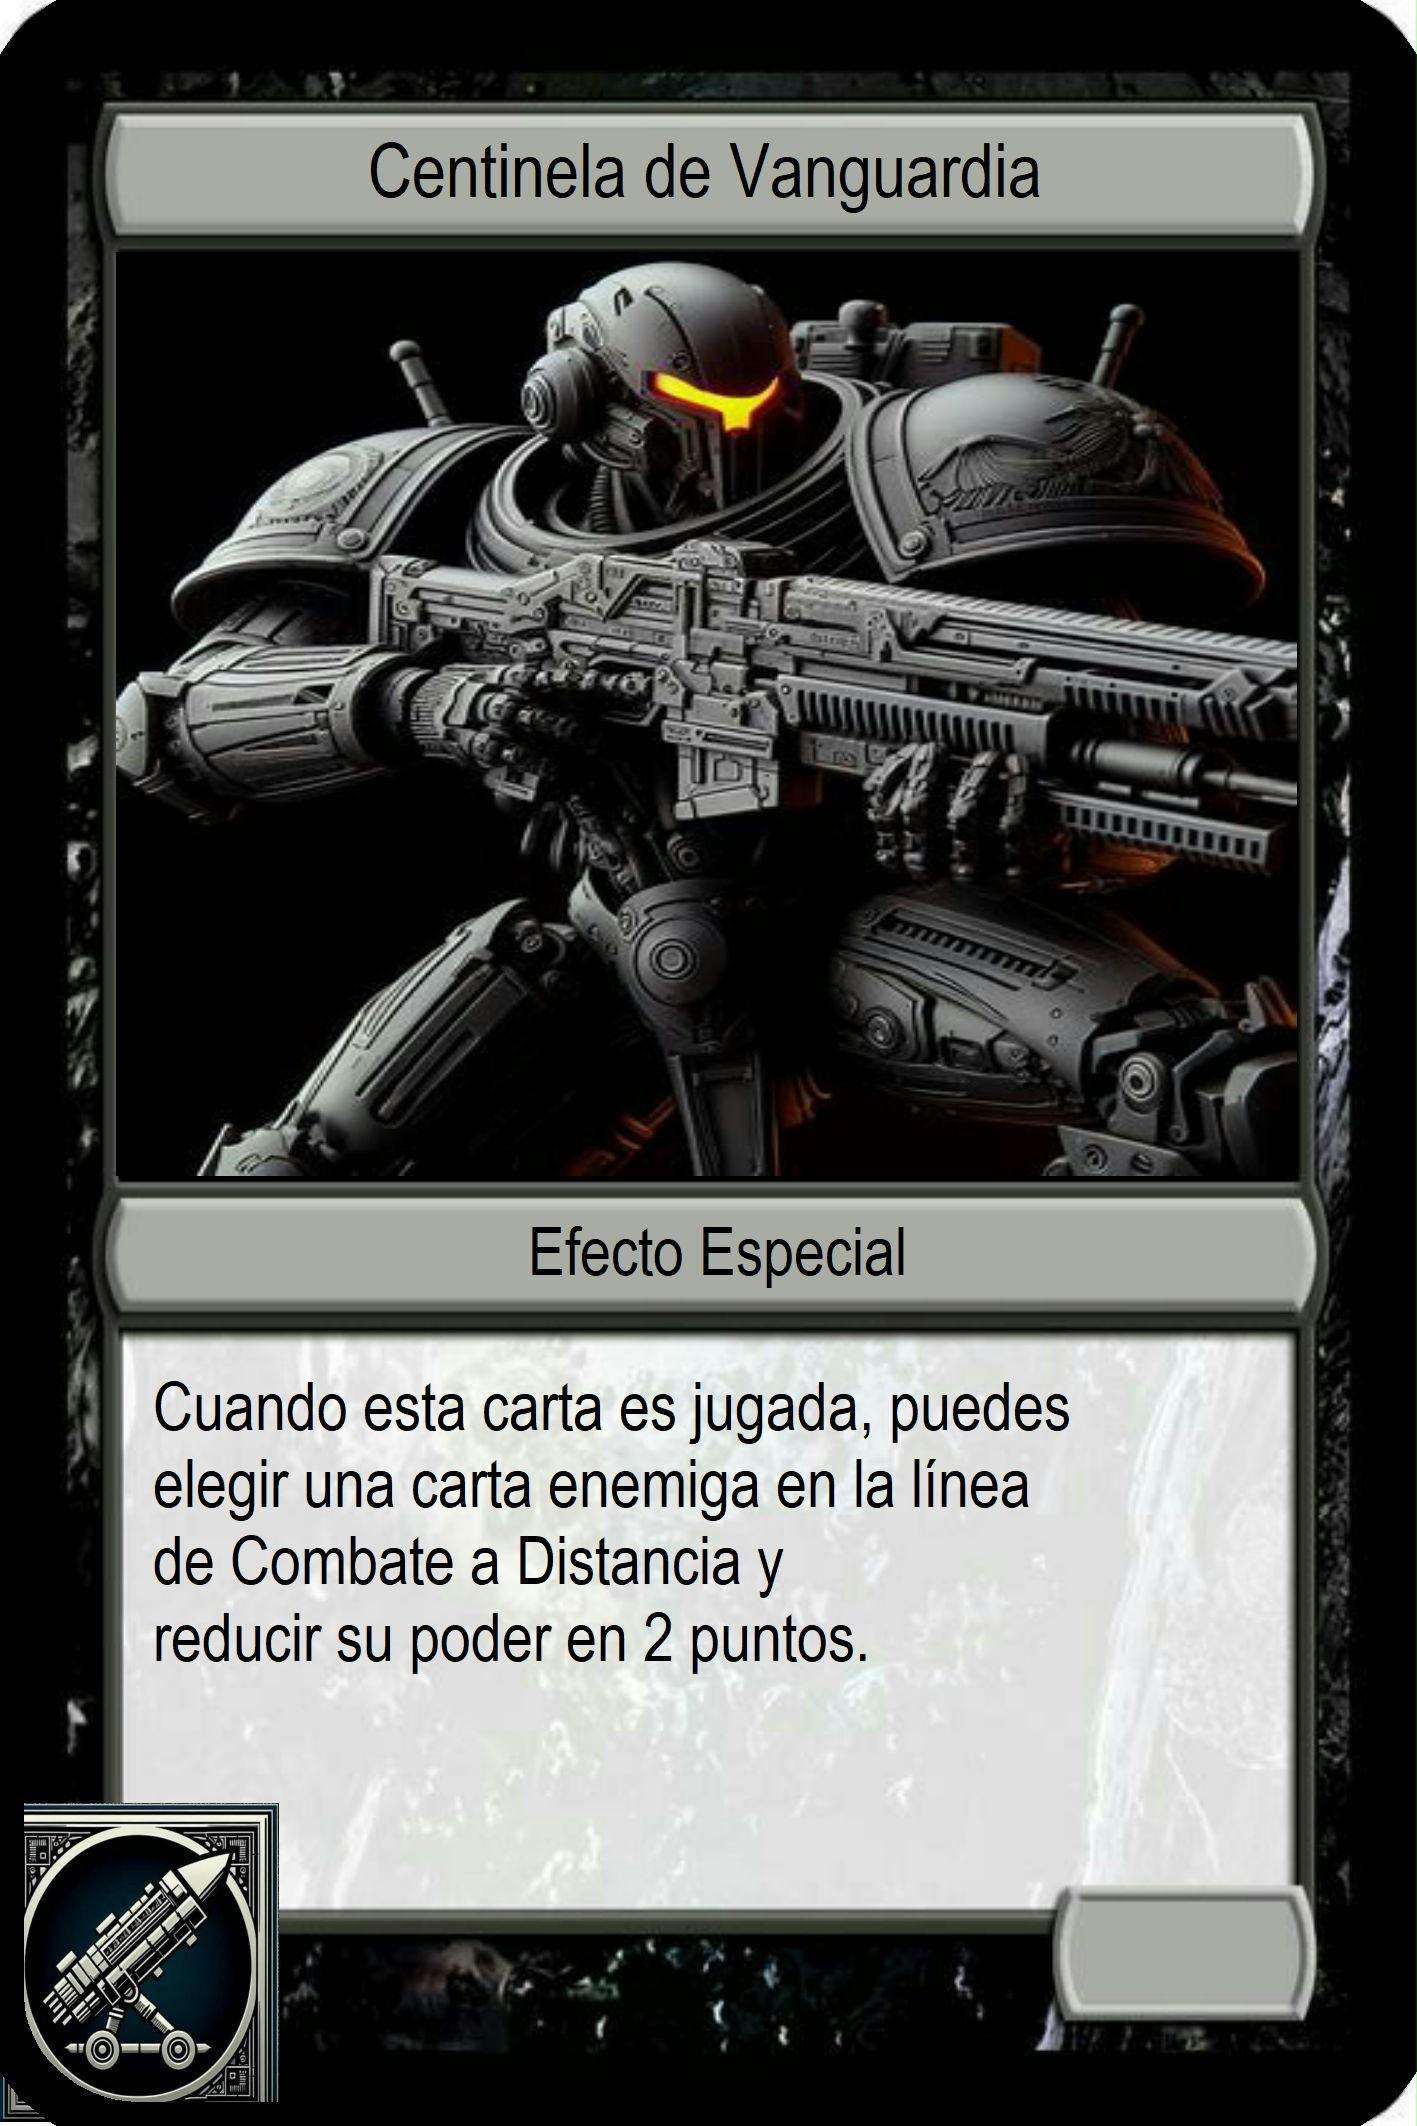
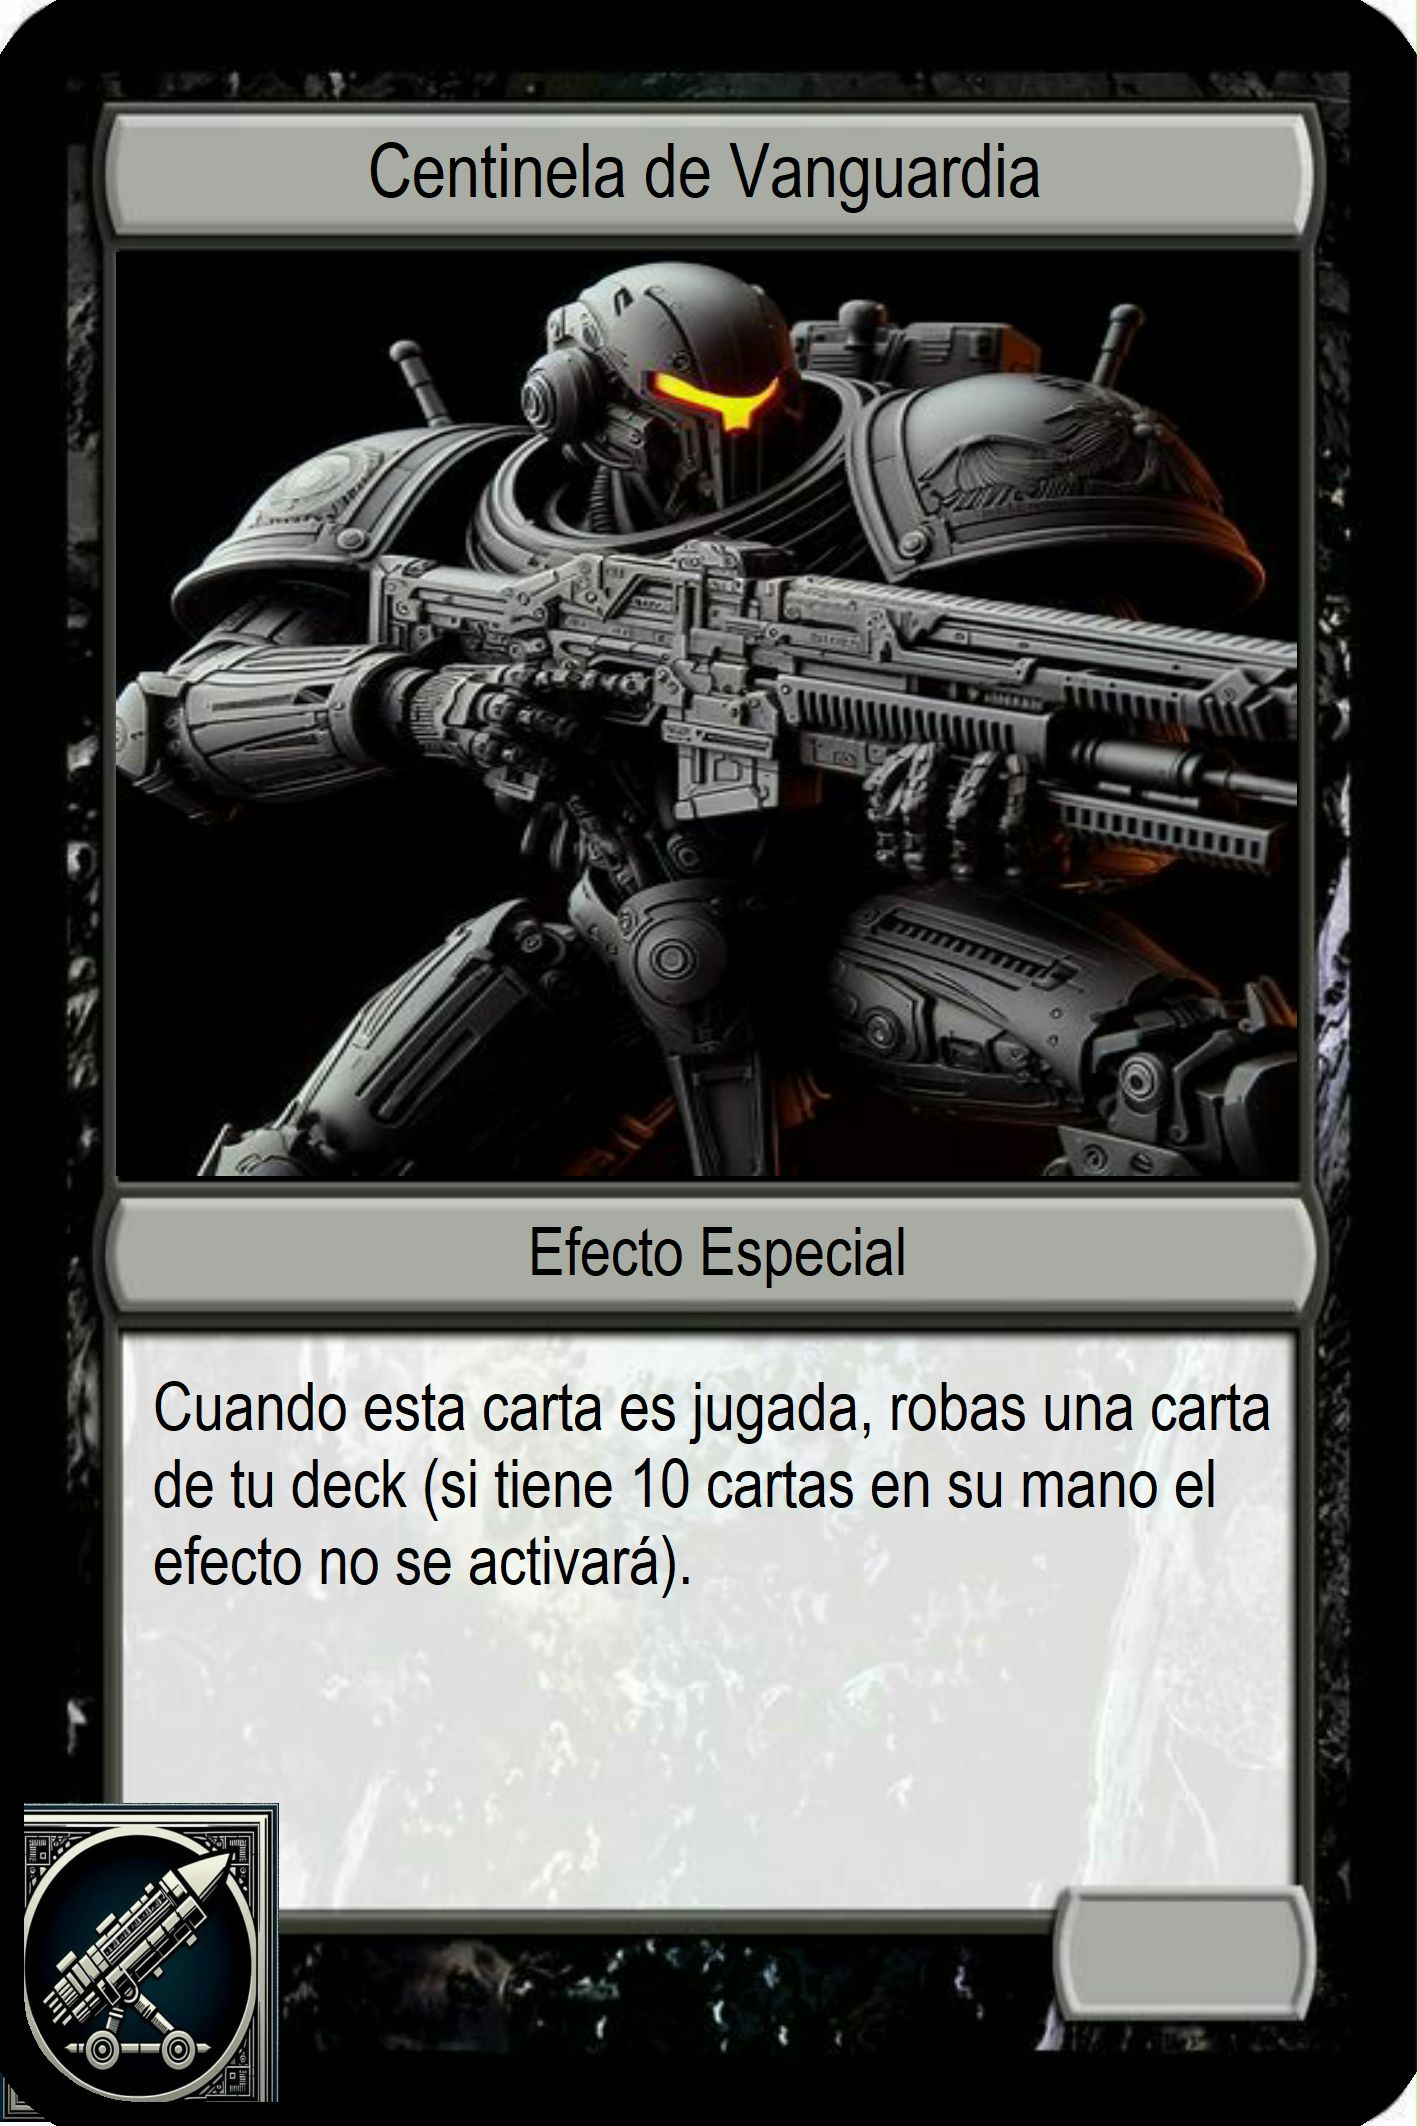
Feat: Gold Cards Effect implemented and new sprites added

Changed region(s): [[0.0932, 0.6519, 0.9005, 0.8071]]

diff --git a/Assets/Scripts/Scr_Effects.cs b/Assets/Scripts/Scr_Effects.cs
@@ -17,6 +17,9 @@ public class Scr_Effects : MonoBehaviour
             { "Play_Card" , Play_Card },
             { "Clear" , Clear },
             { "Increase" , Increase },
+            { "Duplicate_Power" , Duplicate_Power },
+            { "Beehive" , Beehive },
+            { "Destroy_Best_Card" , Destroy_Best_Card }
         };    
     }
 
@@ -422,5 +425,158 @@ public class Scr_Effects : MonoBehaviour
 
             Main_Objects[0].GetComponent<Scr_Game_Manager>().Power_Update();
         }
+
+        else if(card.unit_type == "G")
+        {
+            if (card.player)
+                foreach (Transform obj in Main_Objects[1].transform)
+                {
+                    obj.GetComponent<Display_Card>().Card.current_power = obj.GetComponent<Display_Card>().Card.real_power - Main_Objects[1].GetComponent<Scr_DropZone>().weather_effects + Main_Objects[1].GetComponent<Scr_DropZone>().raise_effects;
+                }
+            else
+                foreach (Transform obj in Main_Objects[4].transform)
+                {
+                    obj.GetComponent<Display_Card>().Card.current_power = obj.GetComponent<Display_Card>().Card.real_power - Main_Objects[1].GetComponent<Scr_DropZone>().weather_effects + Main_Objects[1].GetComponent<Scr_DropZone>().raise_effects;
+                }
+        }
+    }
+    public void Duplicate_Power(Scr_Card card)
+    {
+        if(card.player) {
+            foreach(Transform obj in Main_Objects[1].transform)
+            {
+                obj.GetComponent<Display_Card>().Card.current_power *= 2;
+            }
+        }
+        else if(!card.player) { 
+            foreach(Transform obj in Main_Objects[4].transform)
+            {
+                obj.GetComponent<Display_Card>().Card.current_power *= 2;
+            }
+        } 
+        
+    }
+    public void Beehive(Scr_Card card)
+    {
+        int cont=1;
+        if (card.player)
+        {
+            foreach (Transform obj in Main_Objects[1].transform)
+            {
+                if (obj.GetComponent<Display_Card>().Card.name == card.name)
+                    cont++;
+            }
+            foreach (Transform obj in Main_Objects[2].transform)
+            {
+                if (obj.GetComponent<Display_Card>().Card.name == card.name)
+                    cont++;
+            }
+            foreach (Transform obj in Main_Objects[3].transform)
+            {
+                if (obj.GetComponent<Display_Card>().Card.name == card.name)
+                    cont++;
+            }
+        }
+        else if (!card.player)
+        {
+            foreach (Transform obj in Main_Objects[4].transform)
+            {
+                if (obj.GetComponent<Display_Card>().Card.name == card.name)
+                    cont++;
+            }
+            foreach (Transform obj in Main_Objects[5].transform)
+            {
+                if (obj.GetComponent<Display_Card>().Card.name == card.name)
+                    cont++;
+            }
+            foreach (Transform obj in Main_Objects[6].transform)
+            {
+                if (obj.GetComponent<Display_Card>().Card.name == card.name)
+                    cont++;
+            }
+        }
+        card.current_power *= cont;
+    } 
+    public void Destroy_Best_Card(Scr_Card card)
+    {
+        (int, GameObject) Best_Card = (-1, null);
+        #region//getting the best_card
+        foreach (Transform obj in Main_Objects[1].transform)
+        {
+            if (obj.GetComponent<Display_Card>().Card.current_power > Best_Card.Item1 && obj.GetComponent<Display_Card>().Card.unit_type!="G")
+                Best_Card = (obj.GetComponent<Display_Card>().Card.current_power, obj.gameObject);
+                
+        }
+        foreach (Transform obj in Main_Objects[2].transform )
+        {
+            if (obj.GetComponent<Display_Card>().Card.current_power > Best_Card.Item1 && obj.GetComponent<Display_Card>().Card.unit_type != "G")
+                Best_Card = (obj.GetComponent<Display_Card>().Card.current_power, obj.gameObject);
+
+        }
+        foreach (Transform obj in Main_Objects[3].transform)
+        {
+            if (obj.GetComponent<Display_Card>().Card.current_power > Best_Card.Item1 && obj.GetComponent<Display_Card>().Card.unit_type != "G")
+                Best_Card = (obj.GetComponent<Display_Card>().Card.current_power, obj.gameObject);
+
+        }
+        foreach (Transform obj in Main_Objects[4].transform)
+        {
+            if (obj.GetComponent<Display_Card>().Card.current_power > Best_Card.Item1 && obj.GetComponent<Display_Card>().Card.unit_type != "G")
+                Best_Card = (obj.GetComponent<Display_Card>().Card.current_power, obj.gameObject);
+
+        }
+        foreach (Transform obj in Main_Objects[5].transform)
+        {
+            if (obj.GetComponent<Display_Card>().Card.current_power > Best_Card.Item1 && obj.GetComponent<Display_Card>().Card.unit_type != "G")
+                Best_Card = (obj.GetComponent<Display_Card>().Card.current_power, obj.gameObject);
+
+        }
+        foreach (Transform obj in Main_Objects[6].transform)
+        {
+            if (obj.GetComponent<Display_Card>().Card.current_power > Best_Card.Item1 && obj.GetComponent<Display_Card>().Card.unit_type != "G")
+                Best_Card = (obj.GetComponent<Display_Card>().Card.current_power, obj.gameObject);
+
+        }
+        #endregion
+        #region //deleting it
+        if (Best_Card.Item2.GetComponent<Display_Card>().Card.player)
+        {
+            GameObject Prov_ = GameObject.Find("Game_Manager");
+            if (Prov_ != null)
+            {
+                Destroy(Best_Card.Item2);
+                Prov_.GetComponent<Scr_Game_Manager>().Deck1.Grave.Add(Best_Card.Item2.GetComponent<Display_Card>().Card);
+                Prov_.GetComponent<Scr_Game_Manager>().total_power_p1 = Prov_.GetComponent<Scr_Game_Manager>().total_power_p1 - Best_Card.Item1 + card.current_power;
+                Prov_.GetComponent<Scr_Game_Manager>().total_power_p1_t.text = Prov_.GetComponent<Scr_Game_Manager>().total_power_p1.ToString();
+
+                Prov_.GetComponent<Scr_Game_Manager>().turn = !Prov_.GetComponent<Scr_Game_Manager>().turn;
+                foreach (GameObject obj in Prov_.GetComponent<Scr_Game_Manager>().Principal_Objects)
+                {
+                    if (obj.name == "Grave_Image_CM" || obj.name == "Grave_Image_CR" || obj.name == "Grave_Zone" || obj.name == "Grave_Zone_Enemy" || obj.name == "Lives" || obj.name == "Lives_Zone" || obj.name == "Lives_Zone_Enemy") continue;
+
+                    Prov_.GetComponent<Scr_Game_Manager>().Rotate_Object(obj);
+                }
+            }
+        }
+        else if (!Best_Card.Item2.GetComponent<Display_Card>().Card.player)
+        {
+            GameObject Prov_ = GameObject.Find("Game_Manager");
+            if (Prov_ != null)
+            {
+                Destroy(Best_Card.Item2);
+                Prov_.GetComponent<Scr_Game_Manager>().Deck2.Grave.Add(Best_Card.Item2.GetComponent<Display_Card>().Card);
+                Prov_.GetComponent<Scr_Game_Manager>().total_power_p2 = Prov_.GetComponent<Scr_Game_Manager>().total_power_p2 - Best_Card.Item1 + card.current_power;
+                Prov_.GetComponent<Scr_Game_Manager>().total_power_p2_t.text = Prov_.GetComponent<Scr_Game_Manager>().total_power_p2.ToString();
+
+                Prov_.GetComponent<Scr_Game_Manager>().turn = !Prov_.GetComponent<Scr_Game_Manager>().turn;
+                foreach (GameObject obj in Prov_.GetComponent<Scr_Game_Manager>().Principal_Objects)
+                {
+                    if (obj.name == "Grave_Image_CM" || obj.name == "Grave_Image_CR" || obj.name == "Grave_Zone" || obj.name == "Grave_Zone_Enemy" || obj.name == "Lives" || obj.name == "Lives_Zone" || obj.name == "Lives_Zone_Enemy") continue;
+
+                    Prov_.GetComponent<Scr_Game_Manager>().Rotate_Object(obj);
+                }
+            }
+        }
+        #endregion
     }
 }

diff --git a/Assets/Scripts/Scr_Game_Manager.cs b/Assets/Scripts/Scr_Game_Manager.cs
@@ -27,11 +27,15 @@ public class Scr_Game_Manager : MonoBehaviour
     public int Continuous_Passes = 0;
     public Scr_Deck Deck1;
     public Scr_Deck Deck2;
-    int total_power_p1;
-    int total_power_p2;
+    public int total_power_p1;
+    public int total_power_p2;
     public TextMeshProUGUI total_power_p1_t;
     public TextMeshProUGUI total_power_p2_t;
-    bool Change_round;
+    public bool Change_round;
+    bool Change_round_2;
+    private bool Winp1 = false;
+    private bool Winp2 = false;
+
     public List<Scr_DropZone> Drop_Zones;
 
     void Start()
@@ -102,7 +106,56 @@ public class Scr_Game_Manager : MonoBehaviour
     }
     public void Change_Turn()
     {
-        turn = !turn;
+        if(Change_round_2)
+        {
+            if (Winp1)
+            {
+                Winp1 = false;
+                if (turn == false)
+                {
+                    foreach (GameObject obj in Principal_Objects)
+                    {
+                        if (obj.name == "Grave_Image_CM" || obj.name == "Grave_Image_CR" || obj.name == "Grave_Zone" || obj.name == "Grave_Zone_Enemy" || obj.name == "Lives" || obj.name == "Lives_Zone" || obj.name == "Lives_Zone_Enemy") continue;
+
+                        Rotate_Object(obj);
+                    }
+                    turn = true;
+                }
+                Change_round_2 = false;
+                total_power_p1 = 0;
+                total_power_p2 = 0;
+                total_power_p1_t.text = "0";
+                total_power_p2_t.text = "0";
+                return;
+            }
+
+            else if (Winp2)
+            {
+                Winp2 = false;
+                if (turn==true)
+                {
+                    foreach (GameObject obj in Principal_Objects)
+                    {
+                        if (obj.name == "Grave_Image_CM" || obj.name == "Grave_Image_CR" || obj.name == "Grave_Zone" || obj.name == "Grave_Zone_Enemy" || obj.name == "Lives" || obj.name == "Lives_Zone" || obj.name == "Lives_Zone_Enemy") continue;
+
+                        Rotate_Object(obj);
+                    }
+                    turn = false;
+                }
+                Change_round_2 = false;
+                total_power_p1 = 0;
+                total_power_p2 = 0;
+                total_power_p1_t.text = "0";
+                total_power_p2_t.text = "0";
+                return;
+            }
+
+            //Power_Update();
+            //Change_round_2 = false;
+            //return;
+        }
+
+        turn = !turn;     
         foreach (GameObject obj in Principal_Objects)
         {
             if (obj.name == "Grave_Image_CM" || obj.name == "Grave_Image_CR" || obj.name == "Grave_Zone" || obj.name == "Grave_Zone_Enemy" || obj.name == "Lives" || obj.name == "Lives_Zone" || obj.name == "Lives_Zone_Enemy") continue;
@@ -197,12 +250,16 @@ public class Scr_Game_Manager : MonoBehaviour
             {
                 dropzone.weather_effects = 0;
                 dropzone.raise_effects = 0;
-
             }
 
             Change_round = true;
+            Change_round_2 = true;
+            if (total_power_p1 >= total_power_p2) Winp1 = true;
+            else if(total_power_p2 > total_power_p1)Winp2 = true;
+
             Power_Update();
 
+            //reseteando la cantidad de pases
             Continuous_Passes = 0;
 
             //annadiendo las dos q tocan por ronda
@@ -224,8 +281,8 @@ public class Scr_Game_Manager : MonoBehaviour
 
         this.Continuous_Passes++;
 
-        Change_Turn();
         Change_Round();
+        Change_Turn();
     }  
     public void Power_Update()
     {

diff --git a/Assets/Scripts/Scr_Drag.cs b/Assets/Scripts/Scr_Drag.cs
@@ -17,11 +17,11 @@ public class Scr_Drag : MonoBehaviour
     public void Awake()
     {
         effects = GameObject.Find("Game_Manager").GetComponent<Scr_Effects>();
+        Current_Card = gameObject.GetComponent<Display_Card>();
     }
     public void Begin_Drag()
     {
         Scr_Game_Manager Prov_GM = GameObject.Find("Game_Manager").GetComponent<Scr_Game_Manager>();
-        Current_Card = gameObject.GetComponent<Display_Card>();
         if (Current_Card.Card.player == Prov_GM.turn && !Played)
         {
             Transform Prov_ = GameObject.Find("Zoom_Card_Zone").transform;//accede aal transform del panel del zoom_card
@@ -84,6 +84,11 @@ public class Scr_Drag : MonoBehaviour
                 GameObject Prov_Gm = GameObject.Find("Game_Manager");
 
                 Prov_Gm.GetComponent<Scr_Game_Manager>().Continuous_Passes=0;
+
+                if (Current_Card.Card.effect == "Destroy_Best_Card")
+                    return;
+                
+
                 Prov_Gm.GetComponent<Scr_Game_Manager>().Power_Update();
                 Prov_Gm.GetComponent<Scr_Game_Manager>().Change_Turn();
 
@@ -149,7 +154,7 @@ public class Scr_Drag : MonoBehaviour
             }
             else if(droppable_zone.tag == "Card")
             {
-                if (Current_Card.Card.playable_zone == droppable_zone.tag && droppable_zone.GetComponent<Scr_DropZone>().board_side == Current_Card.Card.player)//verificar si el rango de la carta es parte de la zona en que esta colisionando y si no esta llena ya la zona 
+                if (Current_Card.Card.playable_zone == droppable_zone.tag && droppable_zone.GetComponent<Display_Card>().Card.player == Current_Card.Card.player)//verificar si el rango de la carta es parte de la zona en que esta colisionando y si no esta llena ya la zona 
                 {
                     return droppable_zone;
                 }
@@ -165,7 +170,7 @@ public class Scr_Drag : MonoBehaviour
     {
         if(Current_Card.Card.card_type == "D")
         {
-            if (collision.gameObject.tag == "Card")
+            if (collision.gameObject!=null && collision.gameObject.tag == "Card")
                 Colliding_Zones.Insert(0, collision.gameObject);
         }
        
